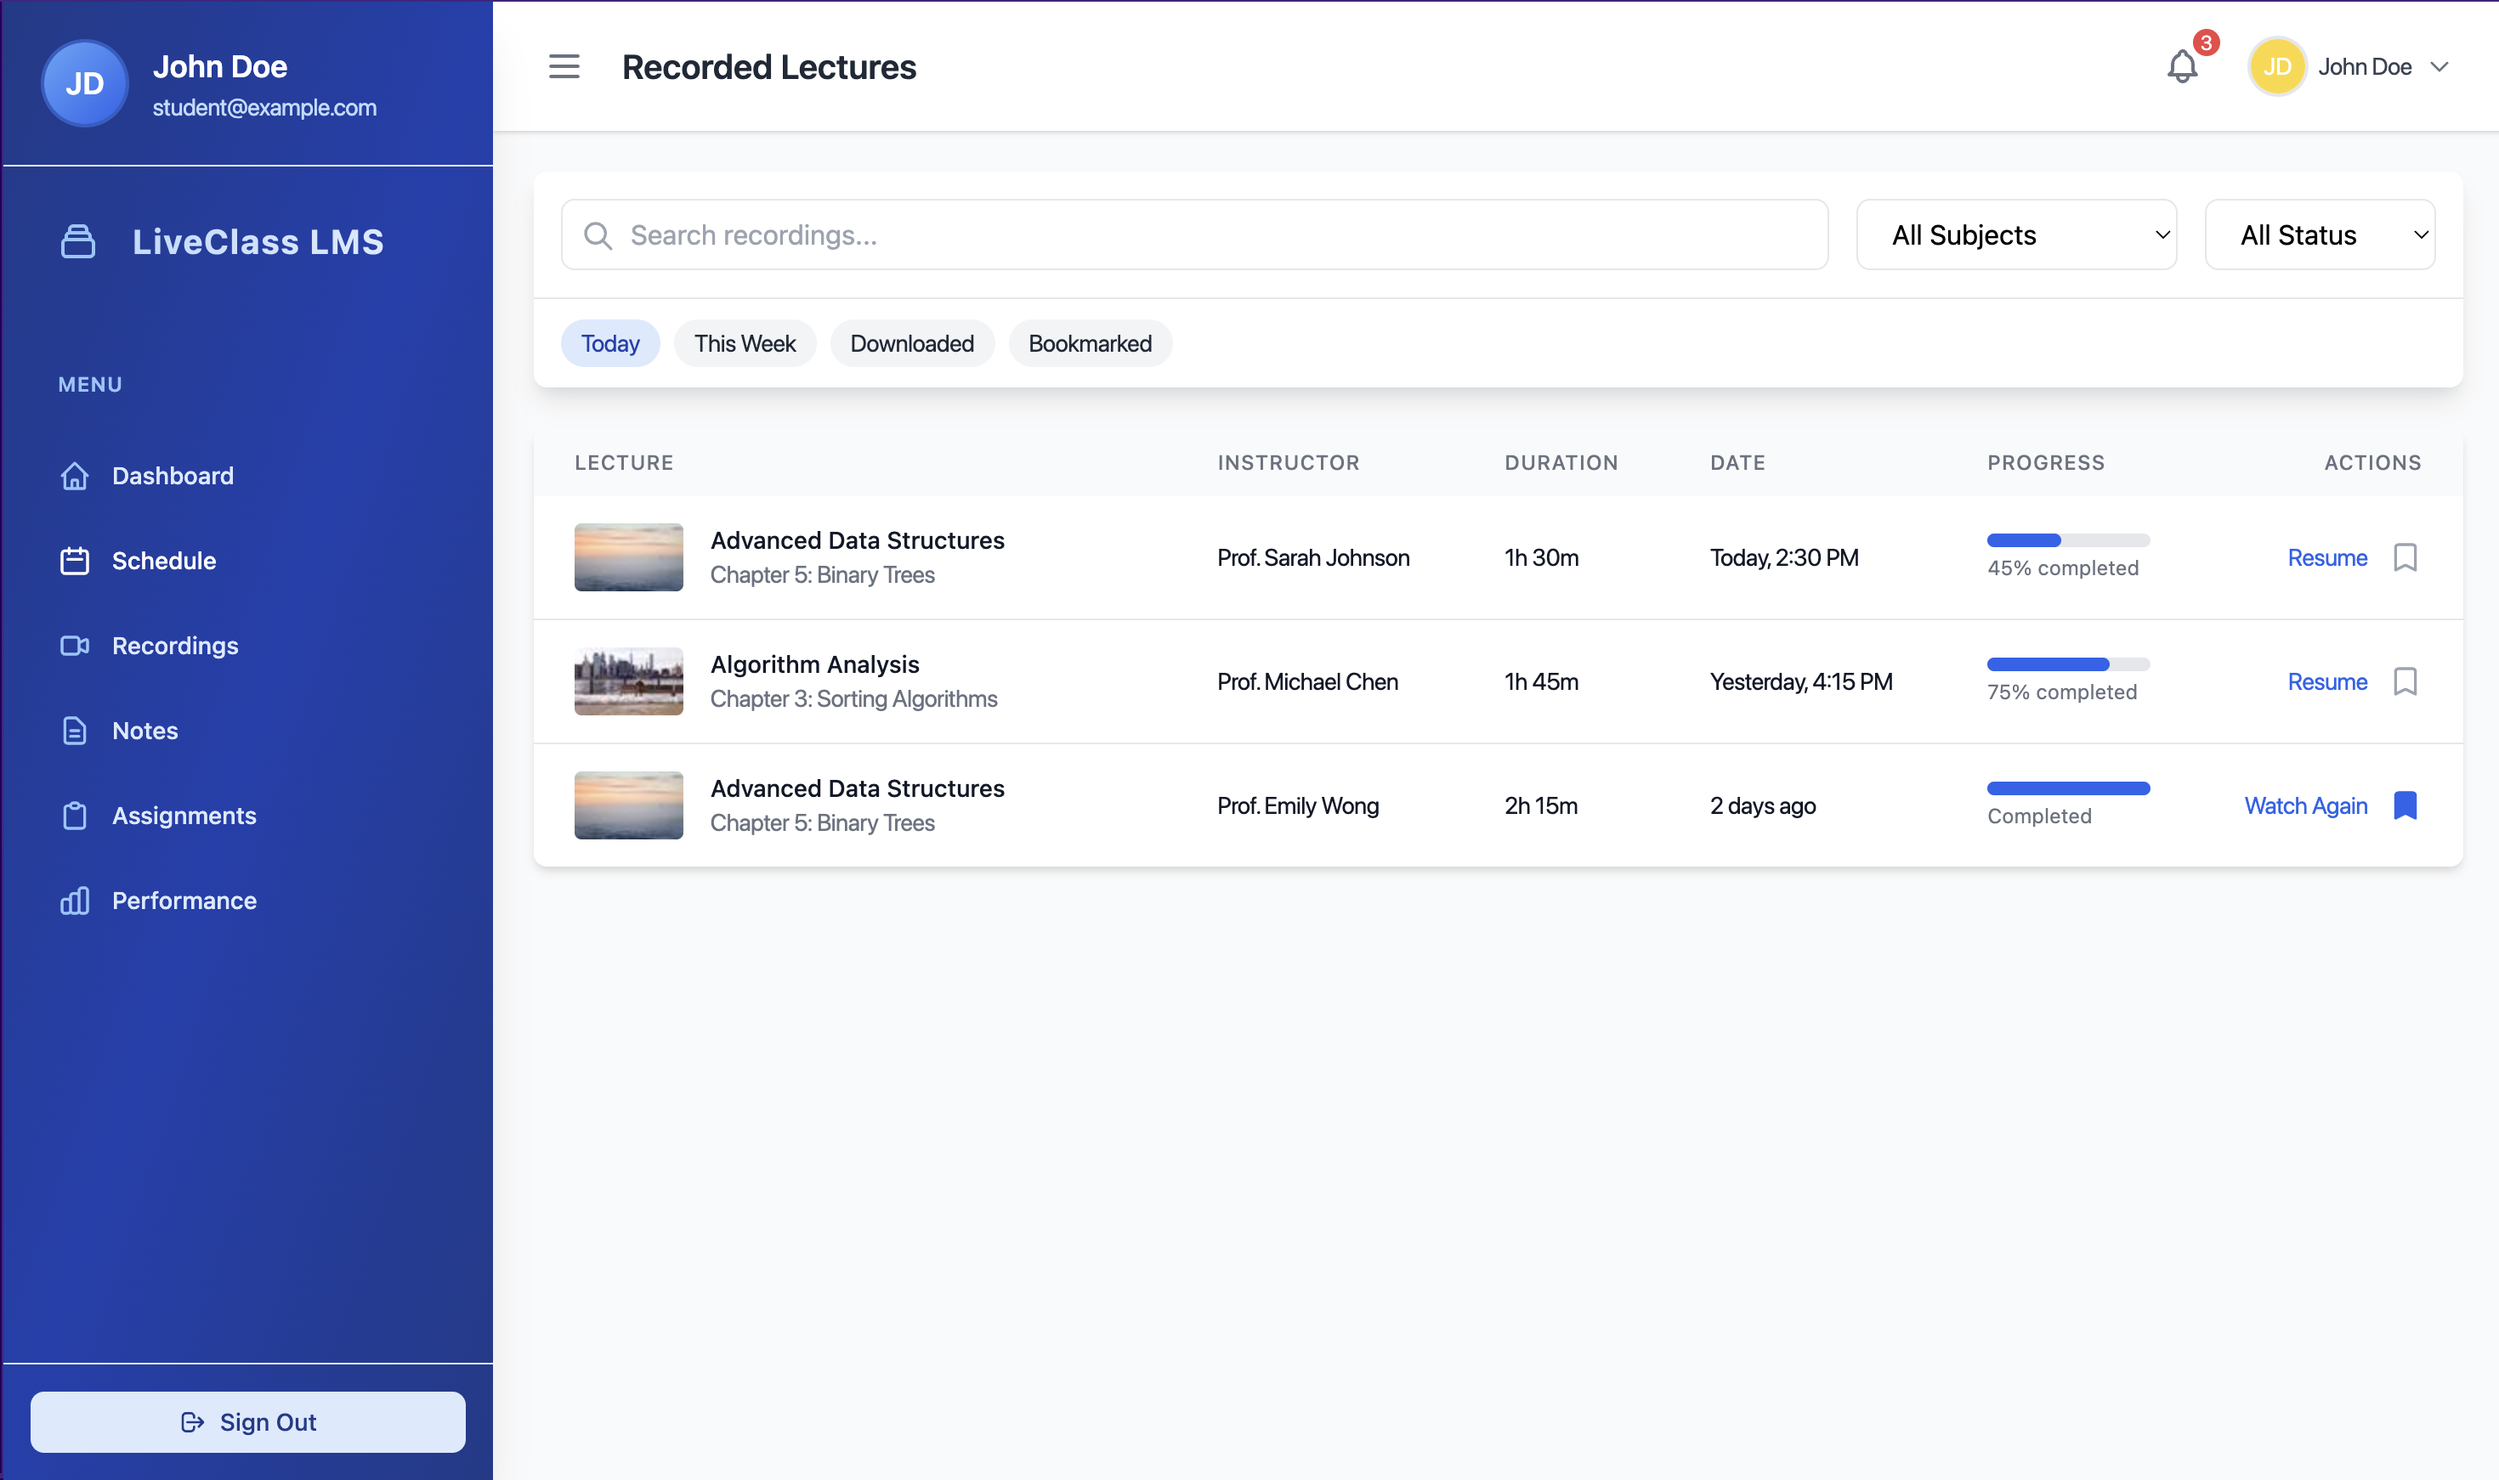
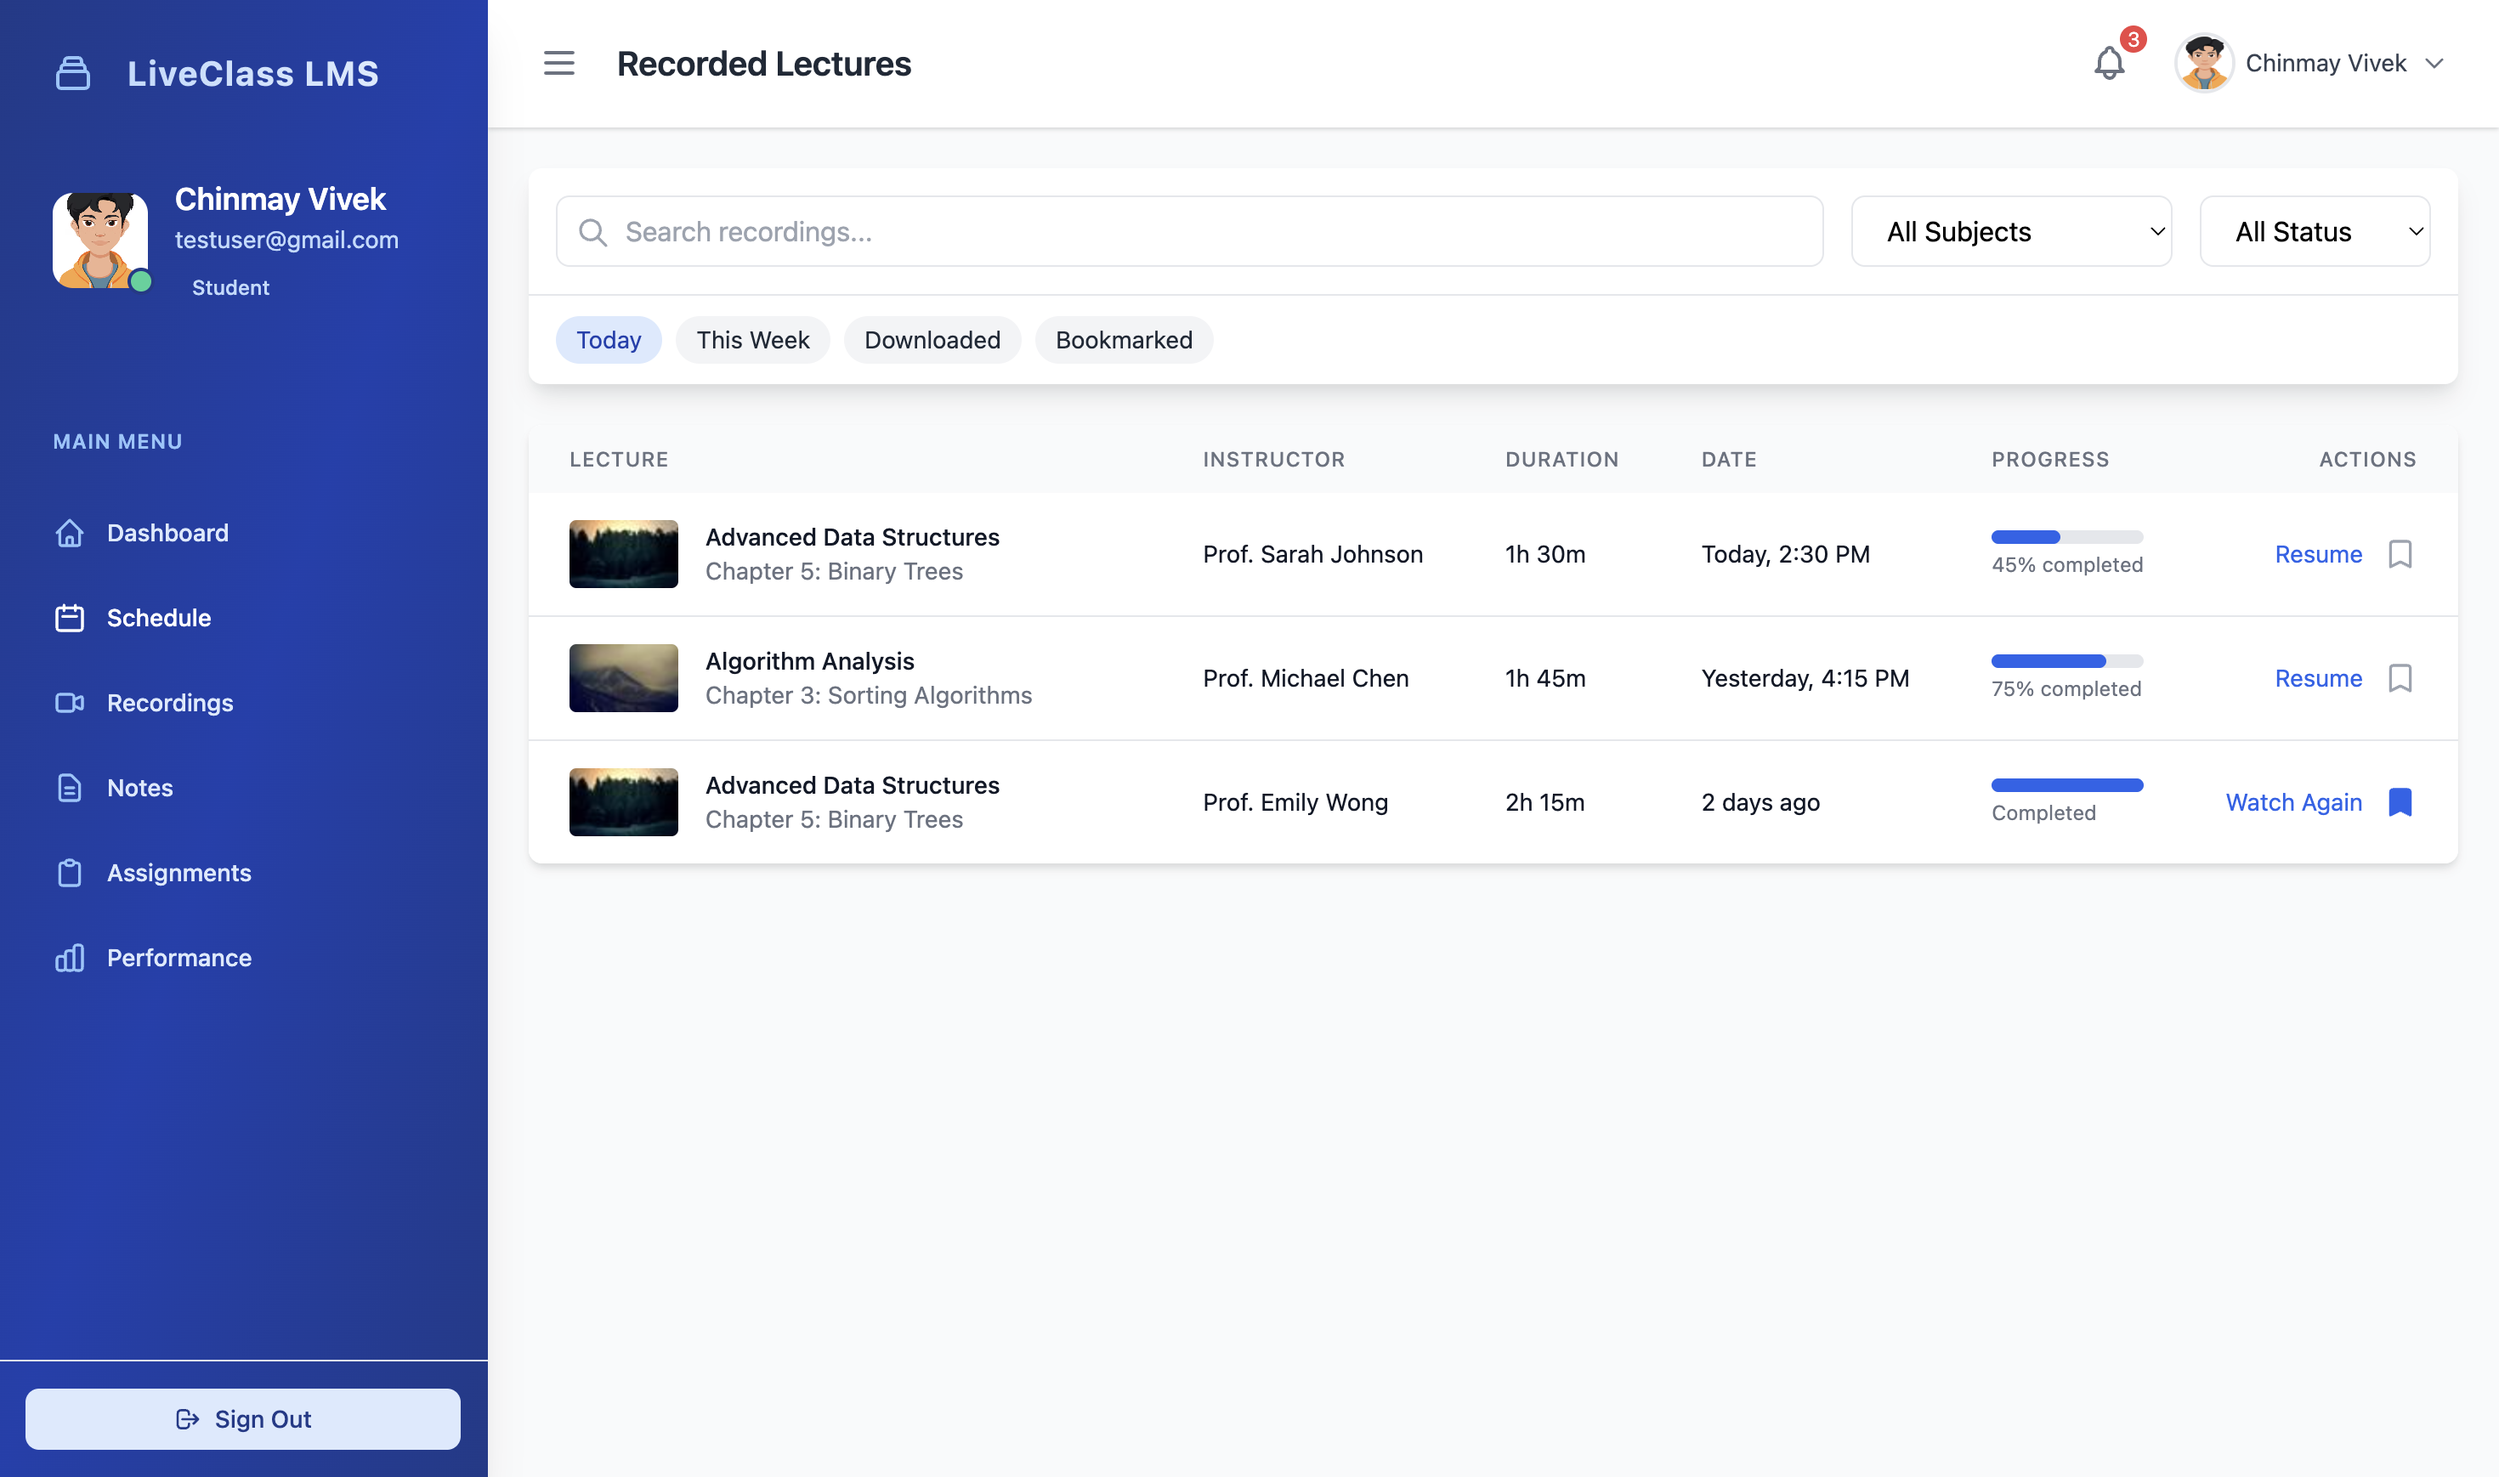
student dashboard updated

diff --git a/template/lms_panel/student/recordings.html b/template/lms_panel/student/recordings.html
@@ -81,7 +81,7 @@
                     <tr class="hover:bg-gray-50">
                         <td class="px-6 py-4">
                             <div class="flex items-center">
-                                <a href="/video" class="flex items-center group">
+                                <a href="/student/video" class="flex items-center group">
                                     <div class="flex-shrink-0 h-10 w-16 relative">
                                         <img class="h-10 w-16 rounded object-cover" src="https://picsum.photos/64/40"
                                             alt="">
@@ -135,7 +135,7 @@
                     <tr class="hover:bg-gray-50">
                         <td class="px-6 py-4">
                             <div class="flex items-center">
-                                <a href="/video" class="flex items-center group">
+                                <a href="/student/video" class="flex items-center group">
                                     <div class="flex-shrink-0 h-10 w-16 relative">
                                         <img class="h-10 w-16 rounded object-cover"
                                             src="https://picsum.photos/64/40?random=2" alt="">
@@ -188,7 +188,7 @@
                     <tr class="hover:bg-gray-50">
                         <td class="px-6 py-4">
                             <div class="flex items-center">
-                                <a href="/video" class="flex items-center group">
+                                <a href="/student/video" class="flex items-center group">
                                     <div class="flex-shrink-0 h-10 w-16 relative cursor-pointer">
                                         <img class="h-10 w-16 rounded object-cover" src="https://picsum.photos/64/40"
                                             alt="">

diff --git a/app/student/student.go b/app/student/student.go
@@ -35,34 +35,48 @@ type Student struct {
 }
 
 func (h *Handler) SchedulePage(w http.ResponseWriter, r *http.Request) {
-	data := map[string]interface{}{}
+	data := map[string]interface{}{
+		"UserData": h.getCurrentUser(),
+	}
 	h.renderTemplate(w, "schedule", data)
 }
 
 func (h *Handler) RecordingPage(w http.ResponseWriter, r *http.Request) {
-	data := map[string]interface{}{}
+	data := map[string]interface{}{
+		"UserData": h.getCurrentUser(),
+	}
 	h.renderTemplate(w, "recordings", data)
 }
 
 func (h *Handler) VideoPlayerPage(w http.ResponseWriter, r *http.Request) {
-	data := map[string]interface{}{}
+	data := map[string]interface{}{
+		"UserData": h.getCurrentUser(),
+	}
 	h.renderTemplate(w, "videoplayer", data)
 }
 
 func (h *Handler) LiveLecturePage(w http.ResponseWriter, r *http.Request) {
-	data := map[string]interface{}{}
+	data := map[string]interface{}{
+		"UserData": h.getCurrentUser(),
+	}
 	h.renderTemplate(w, "livelecture", data)
 }
 func (h *Handler) PerformancePage(w http.ResponseWriter, r *http.Request) {
-	data := map[string]interface{}{}
+	data := map[string]interface{}{
+		"UserData": h.getCurrentUser(),
+	}
 	h.renderTemplate(w, "performance", data)
 }
 func (h *Handler) NotesPage(w http.ResponseWriter, r *http.Request) {
-	data := map[string]interface{}{}
+	data := map[string]interface{}{
+		"UserData": h.getCurrentUser(),
+	}
 	h.renderTemplate(w, "notes", data)
 }
 
 func (h *Handler) AssignmentsPage(w http.ResponseWriter, r *http.Request) {
-	data := map[string]interface{}{}
+	data := map[string]interface{}{
+		"UserData": h.getCurrentUser(),
+	}
 	h.renderTemplate(w, "assignments", data)
 }

diff --git a/app/student/student_dashboard.go b/app/student/student_dashboard.go
@@ -4,20 +4,22 @@ import (
 	"net/http"
 )
 
-func (h *Handler) DashboardPage(w http.ResponseWriter, r *http.Request) {
-	// Get session
-	// Check if user is authenticated
-
-	userData := Student{
+func (h *Handler) getCurrentUser() Student {
+	return Student{
 		ID:                "123",
 		Email:             "testuser@gmail.com",
 		FirstName:         "Chinmay",
 		LastName:          "Vivek",
 		ProfilePictureURL: "https://img.freepik.com/free-vector/young-man-orange-hoodie_1308-175788.jpg",
 	}
+}
+
+func (h *Handler) DashboardPage(w http.ResponseWriter, r *http.Request) {
+	// Get session
+	// Check if user is authenticated
 
 	data := map[string]interface{}{
-		"UserData": userData,
+		"UserData": h.getCurrentUser(),
 	}
 	h.renderTemplate(w, "dashboard", data)
 }

diff --git a/README.md b/README.md
@@ -161,7 +161,41 @@ SERVER_PORT=8080
       <p><em>LiveClass Student Recorded Lecture Player</em></p>
     </div>
   </div>
+  <div style="display: flex; flex-wrap: wrap; gap: 20px; justify-content: center; margin-top: 20px;">
+    <div style="flex: 1; min-width: 45%;">
+      <img src="screenshots/screenshot-9.png" alt="Student Lecture Notes" width="100%">
+      <p><em>LiveClass Student Recorded Lecture Notes Page</em></p>
+    </div>
+    <div style="flex: 1; min-width: 45%;">
+      <img src="screenshots/screenshot-10.png" alt="Student Assignment" width="100%">
+      <p><em>LiveClass Student Assignment</em></p>
+    </div>
+  </div>
+  <div style="display: flex; flex-wrap: wrap; gap: 20px; justify-content: center; margin-top: 20px;">
+    <div style="flex: 1; min-width: 45%;">
+      <img src="screenshots/screenshot-11.png" alt="Student Academic Performance" width="100%">
+      <p><em>LiveClass Student Academic Performance</em></p>
+    </div>
+
+  </div>
 </div>
+
+</details>
+<details>
+<summary><strong>Instructor Portal</strong> (Click to expand)</summary>
+<div align="center">
+  <div style="display: flex; flex-wrap: wrap; gap: 20px; justify-content: center; margin-top: 20px;">
+    <div style="flex: 1; min-width: 45%;">
+      <img src="screenshots/Screenshot-12.png" alt="Instructor Dashboard" width="100%">
+      <p><em>LiveClass Student Instructor Page</em></p>
+    </div>
+    <div style="flex: 1; min-width: 45%;">
+      <img src="screenshots/Screenshot-13.png" alt="Instructor Live Class Page" width="100%">
+      <p><em>LiveClass Instructor Live Class Page</em></p>
+    </div>
+  </div>
+</div>
+
 </details>
 
 
